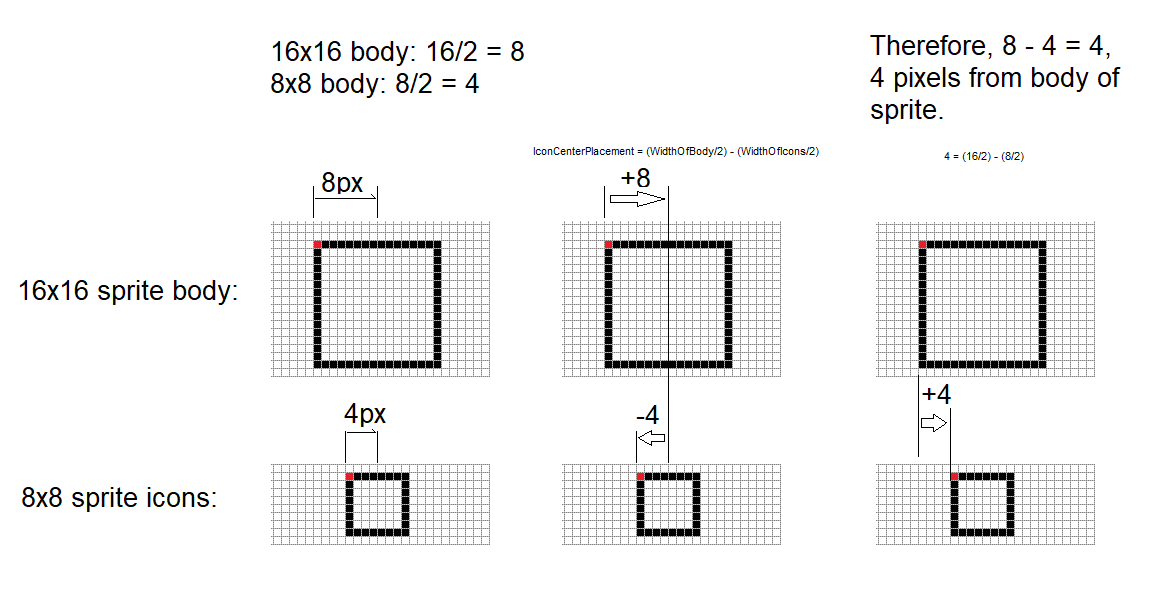
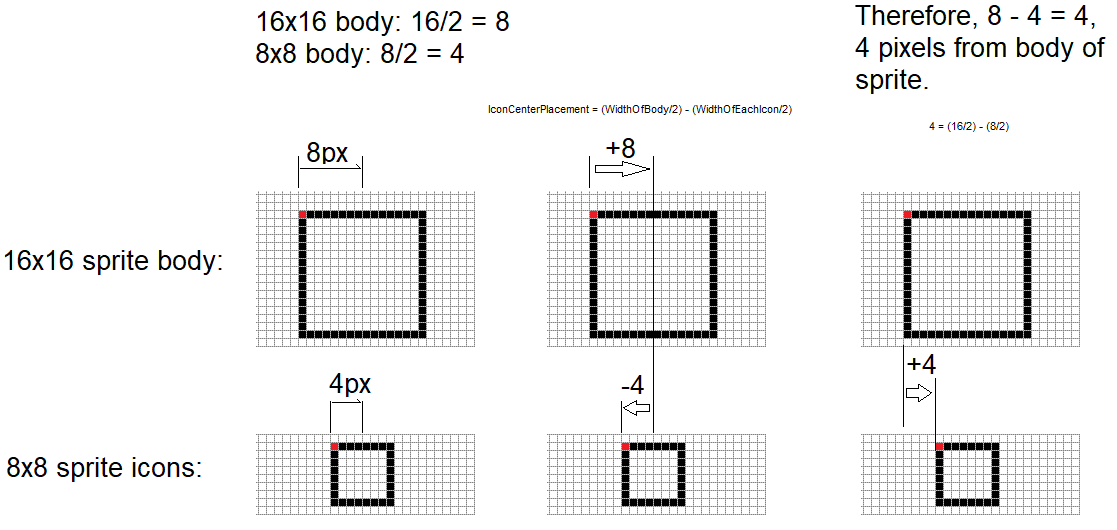
Added an info explanation on centering

diff --git a/Readme_Files/SpritePositining.html b/Readme_Files/SpritePositining.html
@@ -1,0 +1,60 @@
+<html>
+	<head>
+		<style>
+			html {
+			background-color: #000207;
+			color: white;
+			font-family: sans-serif;
+			}
+			
+			table, th, td {
+			border: 1px solid white;
+			border-collapse: collapse;
+			}
+			
+			span.NoLineBreak {
+				white-space: nowrap;
+			}
+			
+			abbr{cursor: help;}
+		</style>
+	</head>
+	
+<a href="../HowToUseTheStatusBar.html#SpritePositioningInfo_Back">Back</a><br>
+<h1>Understanding positioning</h1>
+<p>All the resources here to draw HUD elements on sprites needs a displacement from their sprite &ldquo;origin&rdquo;-- the position obtained after calling <kbd>GetDrawInfo</kbd> written to <kbd>$00</kbd> and <kbd>$01</kbd>.</p>
+
+<p>Sprites have their &ldquo;origin&rdquo; X-position generally at the left edge of their body, for vertical position of the said origin, it is usually 16 pixels from the bottom (the &ldquo;feet&rdquo;) for object-interacting sprites and the top-left of the minimum
+bounding box for most non-object-interacting sprites:<br>
+<img src="SpritePositionPoints.png">
+</p>
+
+<p>Not all custom sprites are like this due to it being coded by different people. An easy way to find its origin is to simply use <kbd>$00</kbd> and <kbd>$01</kbd> (after calling <kbd>GetDrawInfo</kbd>) and write to <kbd>$02</kbd> and <kbd>$03</kbd>,
+like this:
+<table><tr><td><pre>	LDA $00
+	STA $02
+	LDA $01
+	STA $03</pre></td></tr></table>
+And then immediately call <kbd>WriteStringAsSpriteOAM</kbd> without using any centering codes. In the game, on the first tile placed (the leftmost tile when displaying a string (specifically numbers)), <i>its</i> top-left corner will point to where the sprite origin is located at:
+<img src="SpriteOrigin.png">
+</p>
+
+<p>Now in the above example shown, the sprite is 16px wide, finding the midpoint on the horizontal axis is very easy: divide the width by 2 and you get 8. So to obtain the offset from the origin, just take $00, add by $08, write to $03, then call
+<kbd>GetStringXPositionCentered</kbd>.</p>
+
+<p>However, when dealing with repeating icons, it is a whole another story. That routine can accept any displacement amount besides 8 pixels. In the test sprite <kbd>StatusBarTutorial/Pixi_CustomSprite/TestSprite_RepeatedIcons.asm</kbd>,
+the horizontal offset for the center point from the origin is <kbd>+4</kbd>:
+<table><tr><td><pre>			LDA $00				;\X position, the body of the sprite is 16x16, and each icon is 8x8.
+			CLC				;|
+			ADC #$04			;|
+			STA $02				;/</pre></td></tr></table><br>
+Because of this:<br>
+<img src="CenterRepeatingIcons.png"><br>
+The icons themselves have an origin at their top-left corner as well. While 8-pixel itself is halfway of a 16x16 sprite, this would place the left edge of the icon in the center of the body rather than the icon's center:<br>
+<img src="IncorrectCentering.png"><br>
+
+The formula to instantly find the displacement is <kbd>IconCenterPlacement = (WidthOfBody/2) - (WidthOfEachIcon/2)</kbd>. Note that this only works if the sprite's origin is at the top-left of its minimum bounding box, if not, then
+the formula would have to be <kbd>IconCenterPlacement = GetToCenterOfSpriteFromOrigin - (WidthOfEachIcon/2)</kbd>. Where <kbd>GetToCenterOfSpriteFromOrigin</kbd> means a signed value representing an offset from the origin of the sprite.
+Here is an example of what I mean using the giant masked koopa boss in its &ldquo;mask&rdquo; form:<br>
+<img src="WhenSprHaveOriginNotAtLeftEdge.png">
+</p>

diff --git a/HowToUseTheStatusBar.html b/HowToUseTheStatusBar.html
@@ -20,10 +20,6 @@
 		</style>
 	</head>
 
-
-
-
-
 <body onload="Calculate()">
 <center><h1>How to use the status bar</h1></center>
 <hr>
@@ -2096,7 +2092,7 @@ $0A		"/"
 		<kbd>Y index</kbd> (8-bit, pixi sprites only): The OAM index after writing the last tile character. Does not output anything for OAM-only.
 	</td>
 	<td>
-		Writes 8x8 tiles (often for numbers) into OAM. Use after <kbd>SupressLeadingZeros</kbd>.
+		Writes 8x8 tiles (often for numbers) into OAM in the form of text-style (1 line only). Use after <kbd>SupressLeadingZeros</kbd>.
 	</td>
 </tr>
 <tr>
@@ -2161,7 +2157,8 @@ $0A		"/"
 		</table>
 	</td>
 	<td>
-		Calculates the X position of the string to be centered with a given point. Use this before calling <kbd>WriteStringAsSpriteOAM</kbd>.
+		Calculates the X position of the string to be centered with a given point. Use this before calling <kbd>WriteStringAsSpriteOAM</kbd>. Note that this ALWAYS treats each character 8 pixels wide.
+		For more information about positioning, see <a id="SpritePositioningInfo_Back" href="Readme_Files/SpritePositining.html">this info</a></a>.
 	</td>
 </tr>
 <tr>
